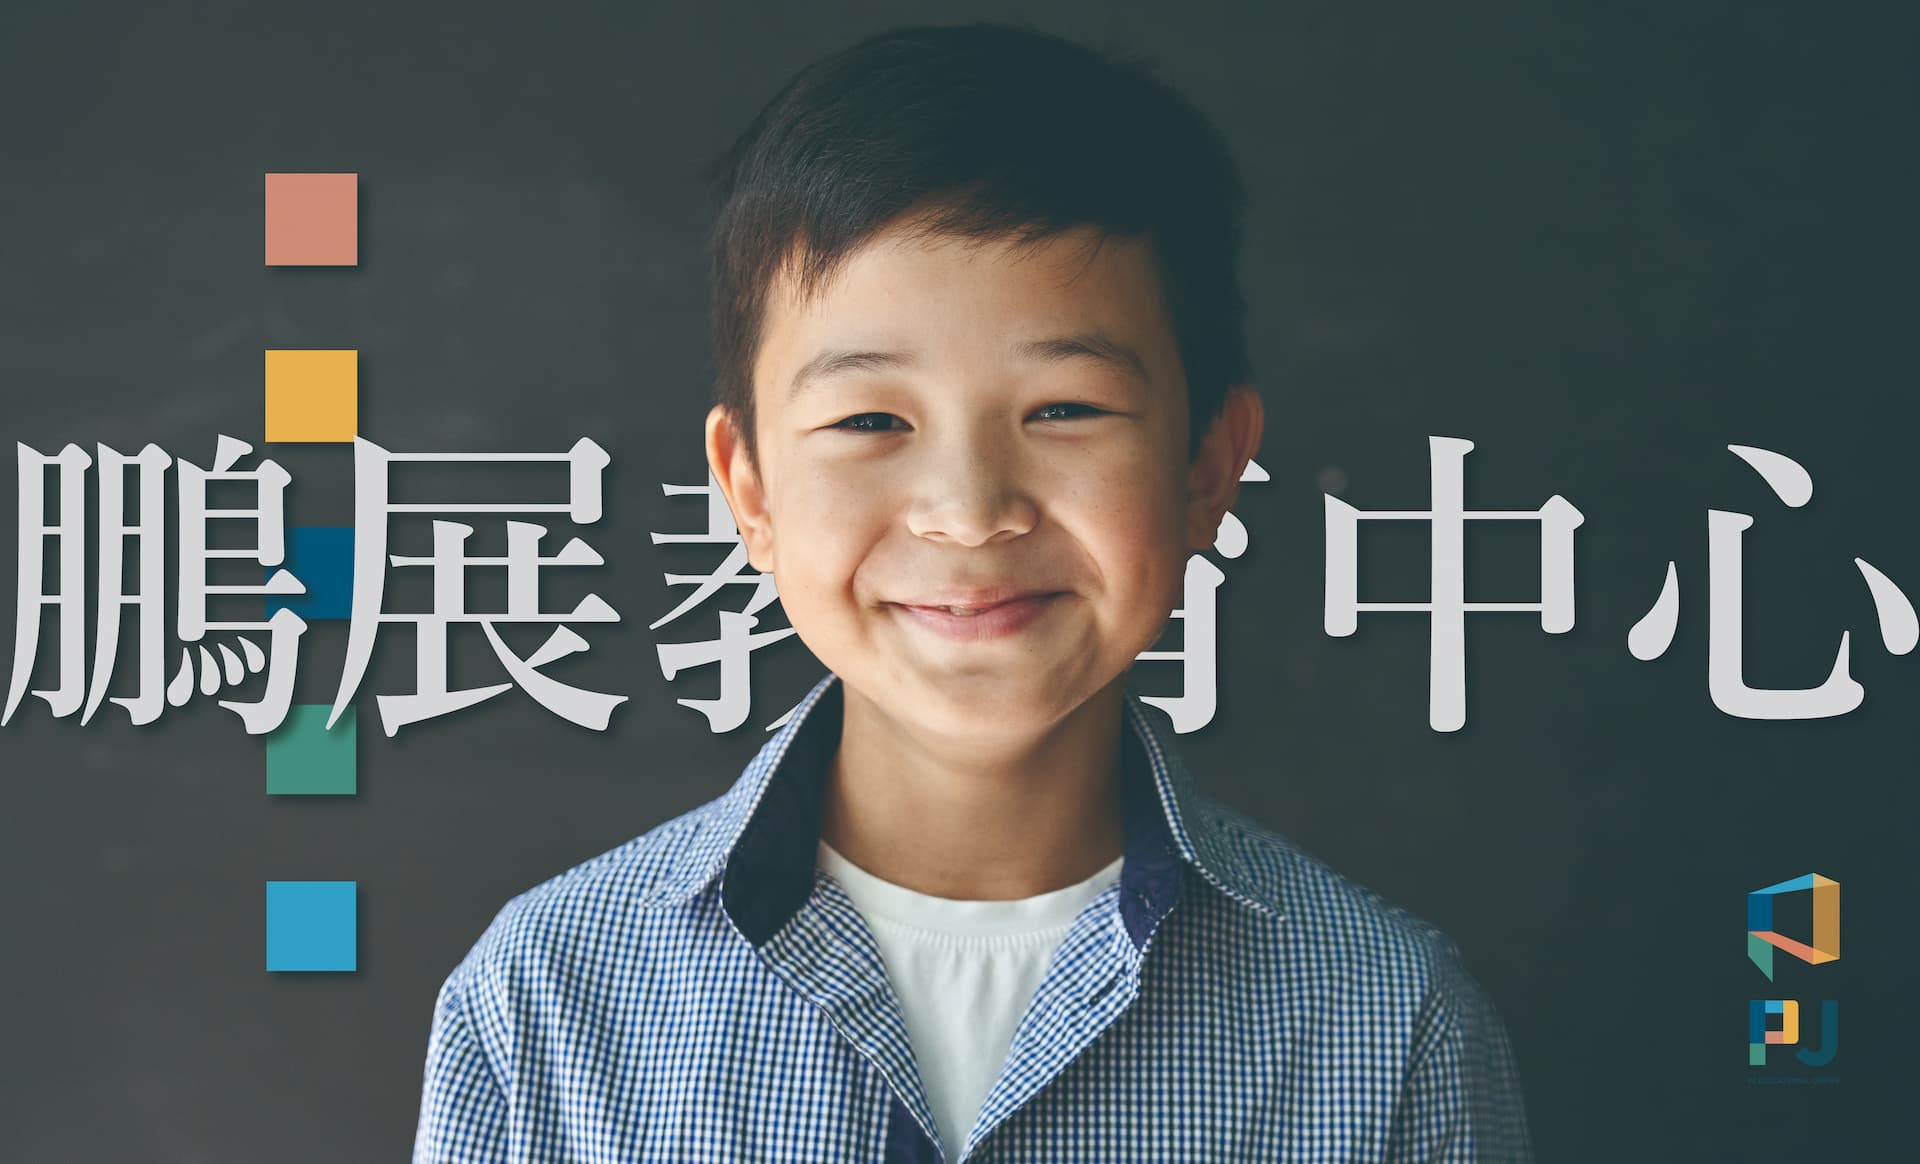
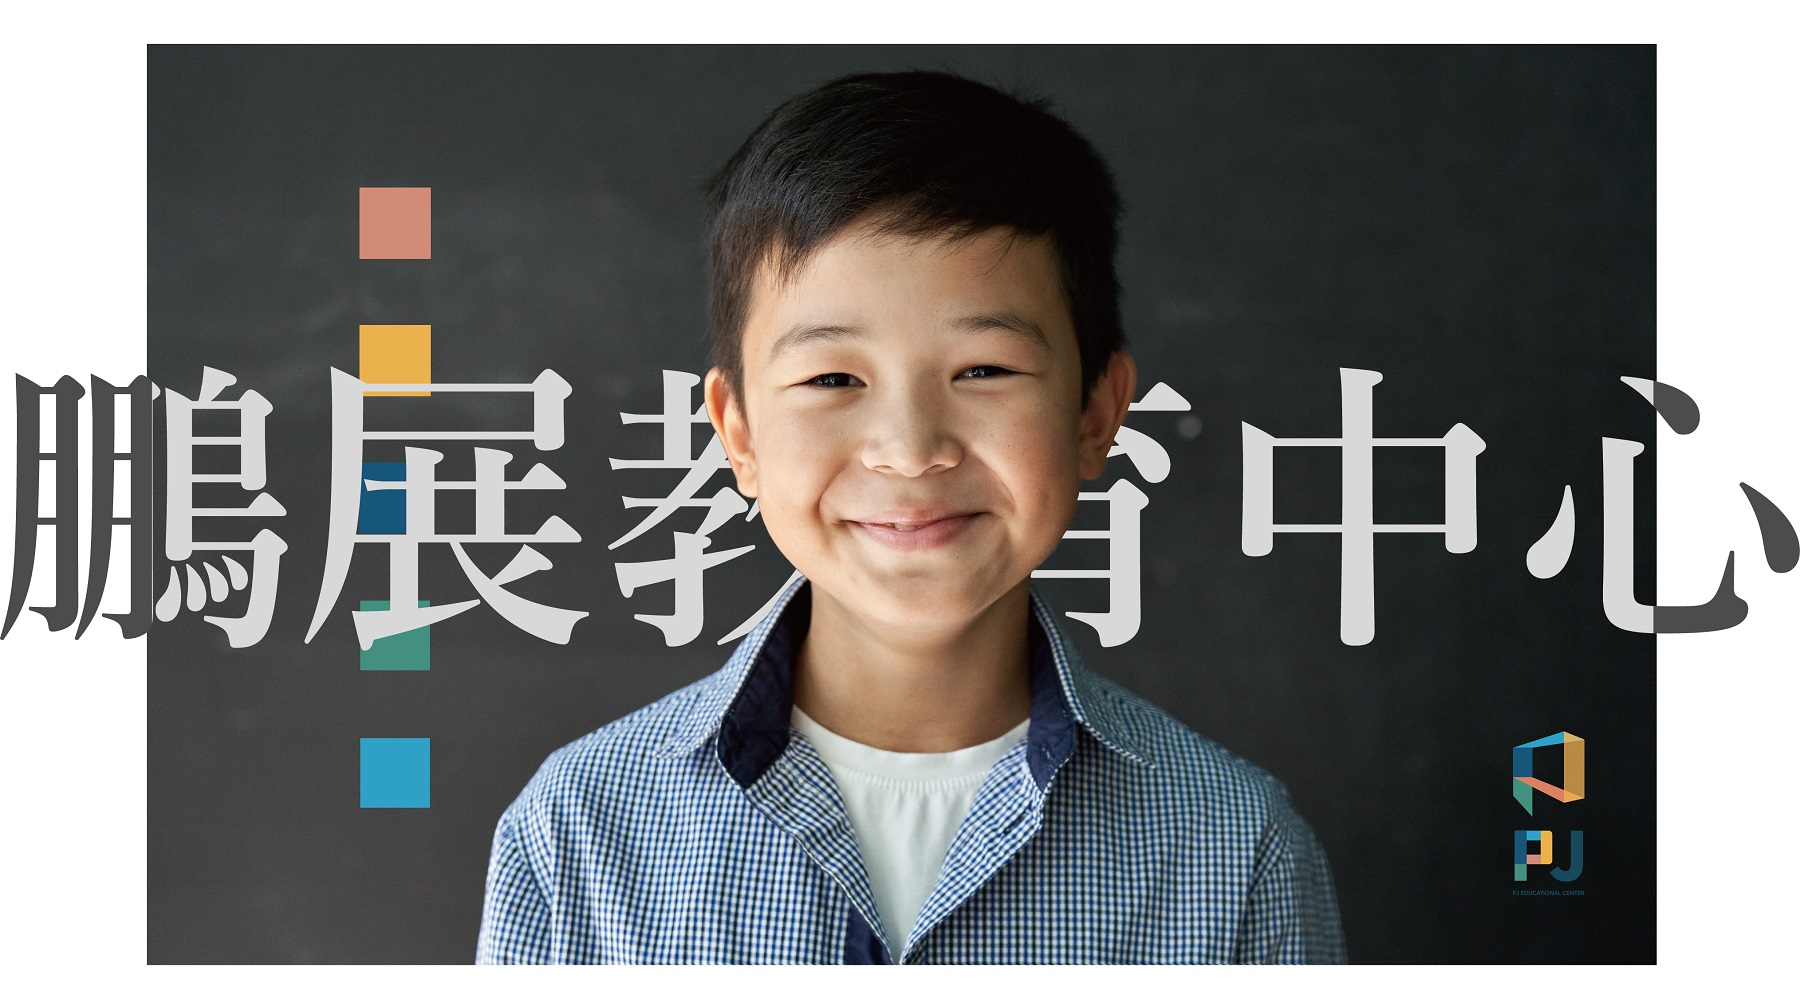
feat: Convert cover image from 11MB PNG to optimized JPG (fixes load time)

diff --git a/index.html b/index.html
@@ -123,6 +123,7 @@
         .monitor .tab-content {
             flex-direction: column;
             overflow-y: auto; 
+            align-items: center;
         }
         
         /* 內容元件樣式... (EDM, INSTA, MONITOR) */
@@ -133,7 +134,8 @@
         .edm-bottom-content img:hover, .insta-bottom-content img:hover { transform: scale(1.02); }
         @keyframes blink { 0%, 100% { opacity: 1; transform: translateY(0); } 50% { opacity: 0.2; transform: translateY(5px); } }
         .arrow-blink { color: var(--text-light); display: inline-block; animation: blink 1.5s infinite ease-in-out; margin-left: 8px; }
-        .monitor-ad a { display: block; cursor: pointer; }
+        .monitor-ad a { display: inline-block; cursor: pointer; }
+        .monitor-ad {width: 100%;  text-align: center; /* 讓圖片連結在這個容器內水平置中 */padding-top: 10px;}
         .monitor-ad img { max-width: 100%; height: auto; display: block; border-radius: 4px; box-shadow: 0 4px 10px rgba(0, 0, 0, 0.3); transition: opacity 0.3s ease; }
         .monitor-ad img:hover { opacity: 0.9; }
         .other-website-content { width: 90vw; max-width: 1000px; margin: 0 auto; padding: 40px; background-color: #fff; border-radius: 12px; box-shadow: 0 5px 20px rgba(0, 0, 0, 0.1); margin-top: 40px; color: var(--text-dark); box-sizing: border-box; }
